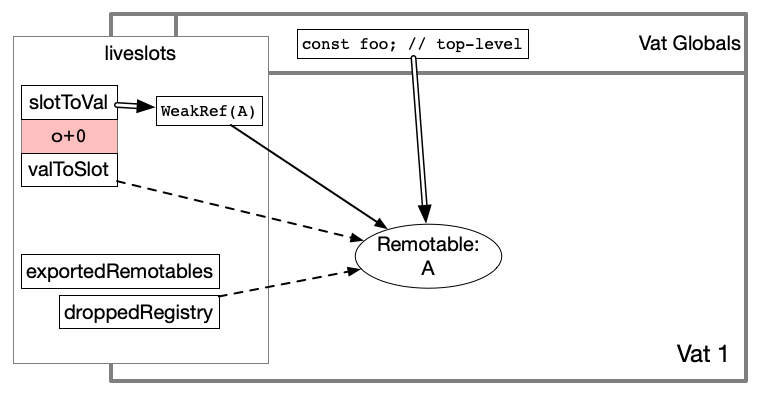
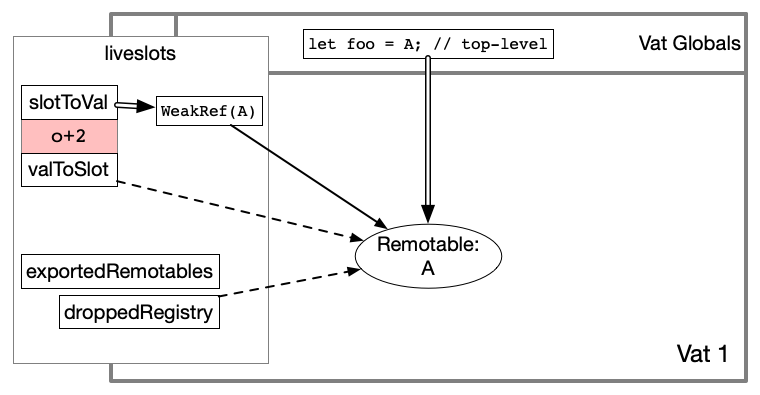
chore(swingset): GC doc/diagram edits

Changed region(s): [[0.3934, 0.0911, 0.7263, 0.5772], [0.0908, 0.3342, 0.1211, 0.3646]]

diff --git a/packages/SwingSet/docs/garbage-collection.md b/packages/SwingSet/docs/garbage-collection.md
@@ -91,7 +91,7 @@ When the last strong reference to a target object is removed, we define the obje
 
 `WeakRef` provides the ability to "poll" whether a given object has been garbage-collected or not, but it does not provide any sort of notification when collection happens. To enable more proactive reactions to object collection, JavaScript provides the `FinalizationRegistry`, which will run a callback some time after a given object is collected. This callback will always happen on its own turn (just like Promise `.then` callbacks), however no guarantees are made as to exactly when it is run.
 
-Swingset makes use of a `FinalizationRegistry` to implement its garbage collection code, however it is denied to vats for the same reason that `WeakRef` is withheld.
+Swingset makes use of a `FinalizationRegistry` to implement its garbage collection code. However, it is denied to vats for the same reason that `WeakRef` is withheld.
 
 ## Recognizability
 
@@ -123,7 +123,7 @@ We use a visual notation in which (strong) reachability is marked with a double 
 
 SwingSet allows vats to use `WeakMap` and `WeakSet` as usual, however the semantics they provide are defined in terms of "swingset objects" instead of strictly using JavaScript `Object` objects.
 
-## JS Engine States: REACHABLE / UNREACHABLE / COLLECTED / FINALIZED / UNKNOWN
+## JS Object States: REACHABLE / UNREACHABLE / COLLECTED / FINALIZED / UNKNOWN
 
 We'll set aside the notion of "recognizability" for a moment, and focus strictly on reachability.
 
@@ -137,9 +137,12 @@ When tracking the reachability state of a JavaScript `Object`, we define five st
 
 If you had a `WeakRef` for the object, it would be "alive" (i.e. `.deref()` returns a value) in the REACHABLE and UNREACHABLE states, and "dead" (`wr.deref() === undefined`) in COLLECTED and FINALIZED.
 
+![JS Object States diagram](./images/gc/js-object-states.png "JS Object States")
+
 Note that there's no actual state machine with those values, and we can't observe all of the transitions from JavaScript. But we *can* describe what operations could cause a transition, and what our observations allow us to deduce about the state:
 
 * UKNOWN moves to REACHABLE when a delivery introduces a new import
+  * or the vat exports/stores a newly created object
   * userspace holds a reference only in REACHABLE
 * REACHABLE moves to UNREACHABLE only during a userspace crank
 * UNREACHABLE moves to COLLECTED when GC runs, which queues the finalizer callback
